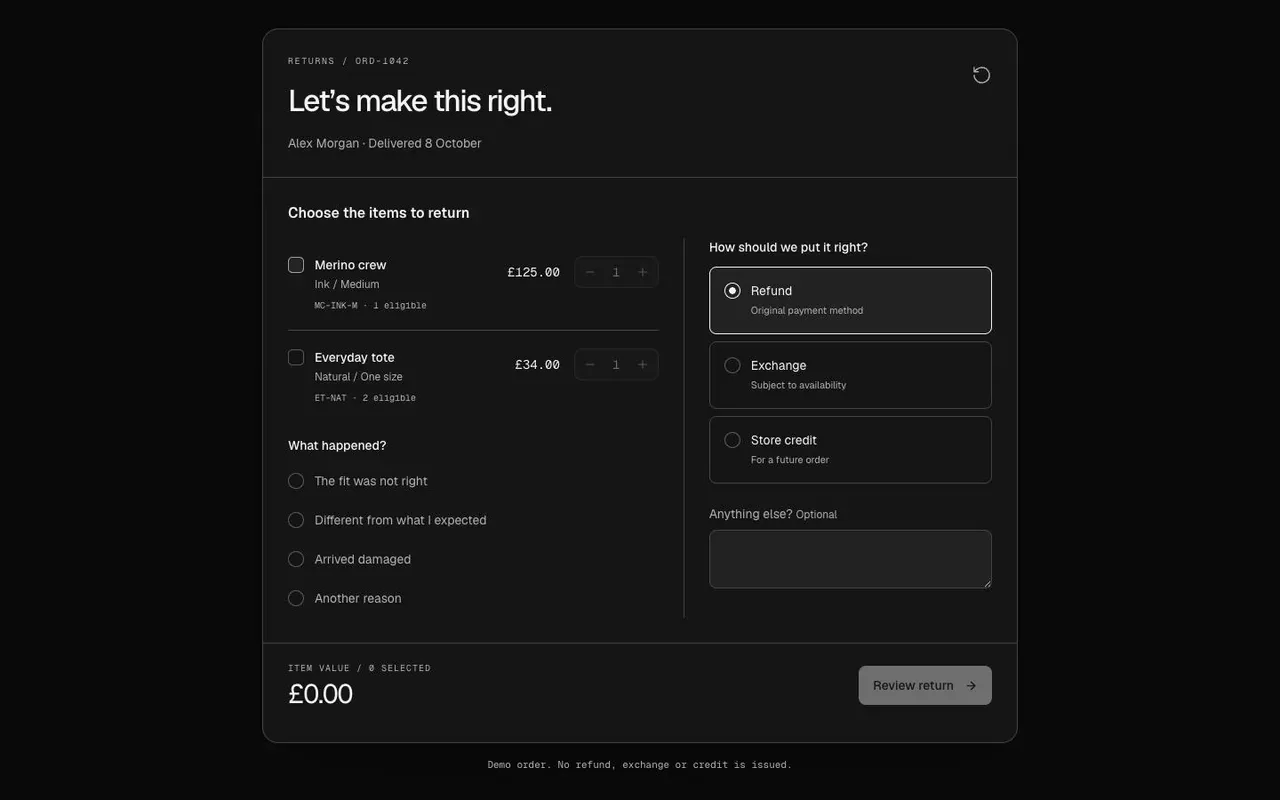
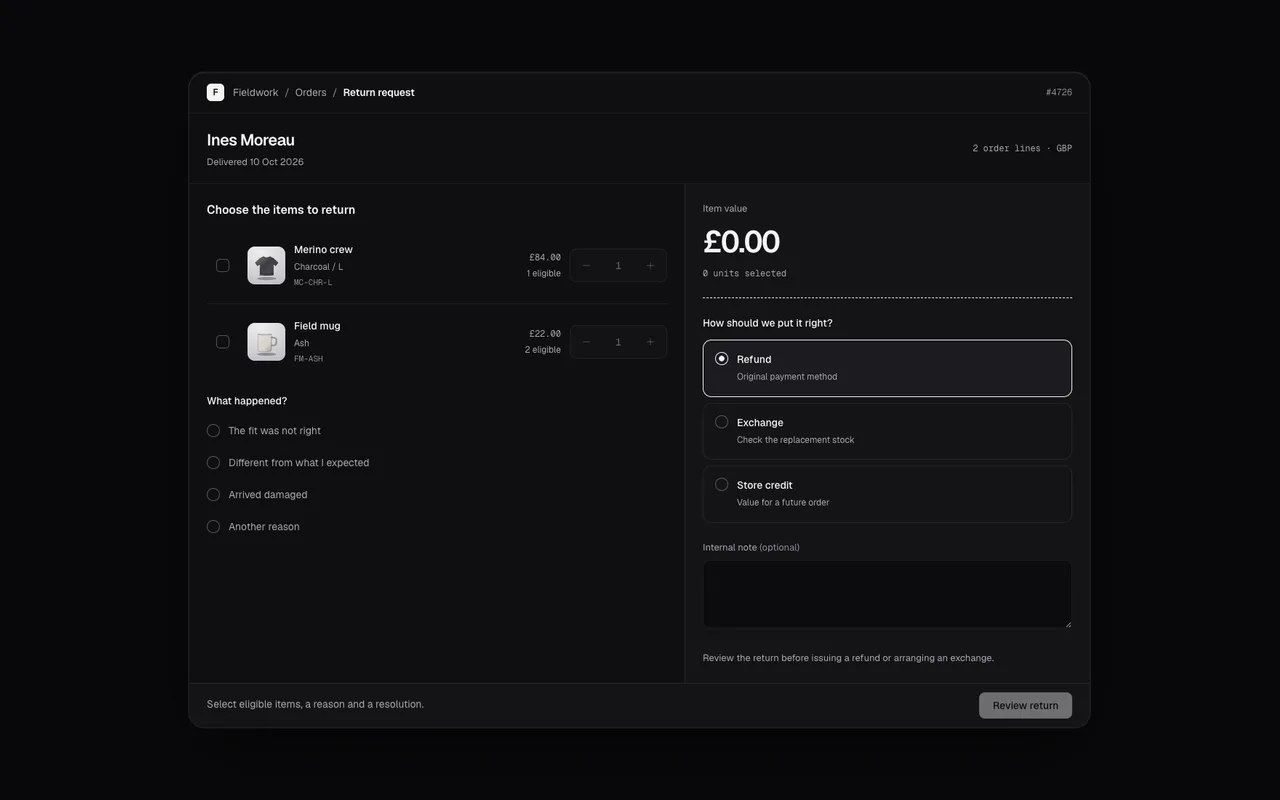
Verify Return Desk workflows, composition and responsive previews

diff --git a/docs/review/HANDOFF_TASKS.md b/docs/review/HANDOFF_TASKS.md
@@ -219,6 +219,8 @@ and how to know it's done. Pick any of them up independently. Background, briefs
 
 - Task 8: the four-Commerce batch and Org Explorer correction pass the Worker dry run with the original guards intact: router 2,655,633 bytes, runtime 56,919,585 bytes and compressed source maps 4,745,670 bytes. The three optional package diagnostics are retained and their runtime files are verified. The initial browser run passed 58/59; its sole failing HR group passes after the confirmed tree/search focus fix. The measured checkpoint below records both runs.
 
+- Task 7: Return Desk is rebuilt as an item ledger and reviewed return slip. Its 25-mount source review and rewritten Next regression cover exact amounts beyond the safe integer, quantity limits, retained-note retry, pending locks, unavailable writers and retired order revisions. Item and quantity targets pass touch-input checks at 44px. Both-theme accessibility, six widths, entrance/state captures, two preview controls, official audit and the full 1,100px Next replay/poster pass, with strict registry, TypeScript and all 1,063 unit tests. The embedded controls remain canonical; form sizes use a scoped override. Commerce Workspace’s period/note/retry/exact-payload check passes with its updated labels and error role. Its new film joins task 1; 35 components and 12 blocks remain in task 7.
+
 ## Ground rules (read first)
 
 - Two repos. Public: `richawo/Design-components-for-AI-agents` (this one). Pro: `richawo/Design-for-AI`, private, cloned
@@ -236,7 +238,7 @@ and how to know it's done. Pick any of them up independently. Background, briefs
 - Browser checks: `node scripts/check-component.mjs <slug> --base=http://localhost:3100 --no-video --keep-going`
   (screenshots at 1440/768/390 and every control flip; read the screenshots it writes to `test-results/check/<slug>/`).
 
-## 1. Re-record demo videos (120 components)
+## 1. Re-record demo videos (121 components)
 
 Every rebuilt component's poster is current but its catalogue film (`public/previews/<slug>.mp4`) still shows the old
 version. Record them one at a time on an otherwise idle machine; the recorder rejects frame stalls under load.
@@ -255,6 +257,7 @@ slug or per small group). Notes:
 
 Slugs:
 
+`commerce-return-desk`
 `editor-font-pairing`, `editor-keyframe-track`
 `editor-layer-stack`, `editor-spacing-inspector`, `editor-storyboard-strip`, `editor-version-restore`
 `three-exploded-assembly`, `three-material-inspector`, `agents-budget-guard`, `agents-dependency-board`
@@ -384,15 +387,15 @@ All nine parked rebuilds are shipped in both repos. Their original `_wip/<slug>`
 | finance-budget-variance | Completed 17 October: Next probe, dark/light accessibility, responsive and entrance/state captures, live demo and refreshed poster pass. |
 | finance-cashflow-dashboard | Completed 17 October: weekly balance and in/out bars, movable payments, independent pending saves, invalid-data guards, selected-week list geometry, Next probe/demo, both-theme accessibility, responsive/state/entrance captures and refreshed poster pass. |
 
-## 7. Continue the review (36 components, then 12 blocks)
+## 7. Continue the review (35 components, then 12 blocks)
 
-Same process as the 162 already done: hold each to the first ~100 components' standard. Briefs:
+Same process as the 163 already done: hold each to the first ~100 components' standard. Briefs:
 `docs/review/REVIEW_BRIEF.md`, `docs/review/SUITE_BRIEF.md` for industry components, suite languages in
 `docs/review/suites/`. Work newest first, about four components per batch, and verify each (build, tsc, tests,
 check-component, your own captures of states and mid-entrance frames, a refreshed poster, a rewritten pro-50 probe for
 industry components).
 
-- **Commerce** (copy `suites/commerce.md`): commerce-return-desk, commerce-variant-stock,
+- **Commerce** (copy `suites/commerce.md`): commerce-variant-stock,
   commerce-catalog-import. `block-commerce-workspace` imports commerce-return-desk: keep its call site working.
 - **Others**: app-permission-matrix, legal-version-history (`suites/legal.md`), hr-capacity-planner (`suites/hr.md`),
   data-query-builder.

diff --git a/docs/review/STATUS.md b/docs/review/STATUS.md
@@ -1,6 +1,6 @@
 # Review status
 
-162 components are rebuilt (or, for a few, polished), verified and committed. For each: whether its demo video
+163 components are rebuilt (or, for a few, polished), verified and committed. For each: whether its demo video
 needs re-recording, whether its poster is current, and the state of its browser regression probe.
 
 - **Video**: `new` means `public/previews/<slug>.mp4` still shows the old version. Re-record serially on a quiet machine:
@@ -11,7 +11,7 @@ needs re-recording, whether its poster is current, and the state of its browser 
 
 ## Batch verification (18 October 2026)
 
-The latest four Commerce rebuilds pass their focused Next workflows, controls and component audits. The full
+The preceding four Commerce rebuilds pass their focused Next workflows, controls and component audits. The full
 Next-backed run passed 58/59 suites; its sole failure, Org Explorer’s deferred tree focus closing colleague search,
 is fixed and the complete HR group passes its rerun. Every suite now has a passing result; both logs are preserved.
 Strict registry validation, TypeScript and all 1,063 unit tests pass. The Worker dry run passes with a
@@ -177,10 +177,11 @@ Measurements, checkout revisions and package diagnostics are recorded in
 | `fashion-size-guide` | new | current | source-fixture regression/demo, native palettes, both-theme accessibility and responsive/state/entrance captures pass |
 | `fashion-wholesale-order` | new | current | rewritten, passes |
 
-## Commerce suite (8)
+## Commerce suite (9)
 
 | Slug | Video | Poster | Probe |
 | --- | --- | --- | --- |
+| `commerce-return-desk` | new | current | Rebuilt item ledger and return slip; 25-mount source review, exact-amount/retry/pending/revision Next regression, Commerce Workspace integration, both-theme accessibility, six widths, entrance/state captures, 44px touch targets, two controls, official audit and complete 1,100px demo/poster pass. Strict registry, TypeScript and all 1,063 unit tests pass. |
 | `commerce-operations-dashboard` | current | current | Rebuilt revenue/flow/channel dashboard; 24-mount source review, Next exact-total/inspection/history/empty regression, full-month replay, both-theme accessibility, six widths, entrance/state captures, two controls and official audit pass. Measured 1,240px preview and refreshed poster retain the whole ledger; reviewed 3.2s Retail/month film and paired poster are current. |
 | `commerce-fulfilment-desk` | current | current | Rebuilt parcel/route/recovery workflow; 23-mount source review, Next retained-note/retry/pending/revision/empty regression, recorded-request replay, both-theme accessibility, six widths, entrance/state captures, two controls, official audit and measured full-frame poster pass; reviewed 5.7s recovery/note/review/record film and paired poster are current. |
 | `commerce-purchase-order` | current | current | Rebuilt PO document; 22-mount source review, Next exact-cost/retry/pending/supplier regression, three-line saved-draft replay, both-theme accessibility, six widths, entrance/state captures, three controls, official audit and refreshed poster pass; reviewed 4.1s add/review/save film and paired poster are current. |
